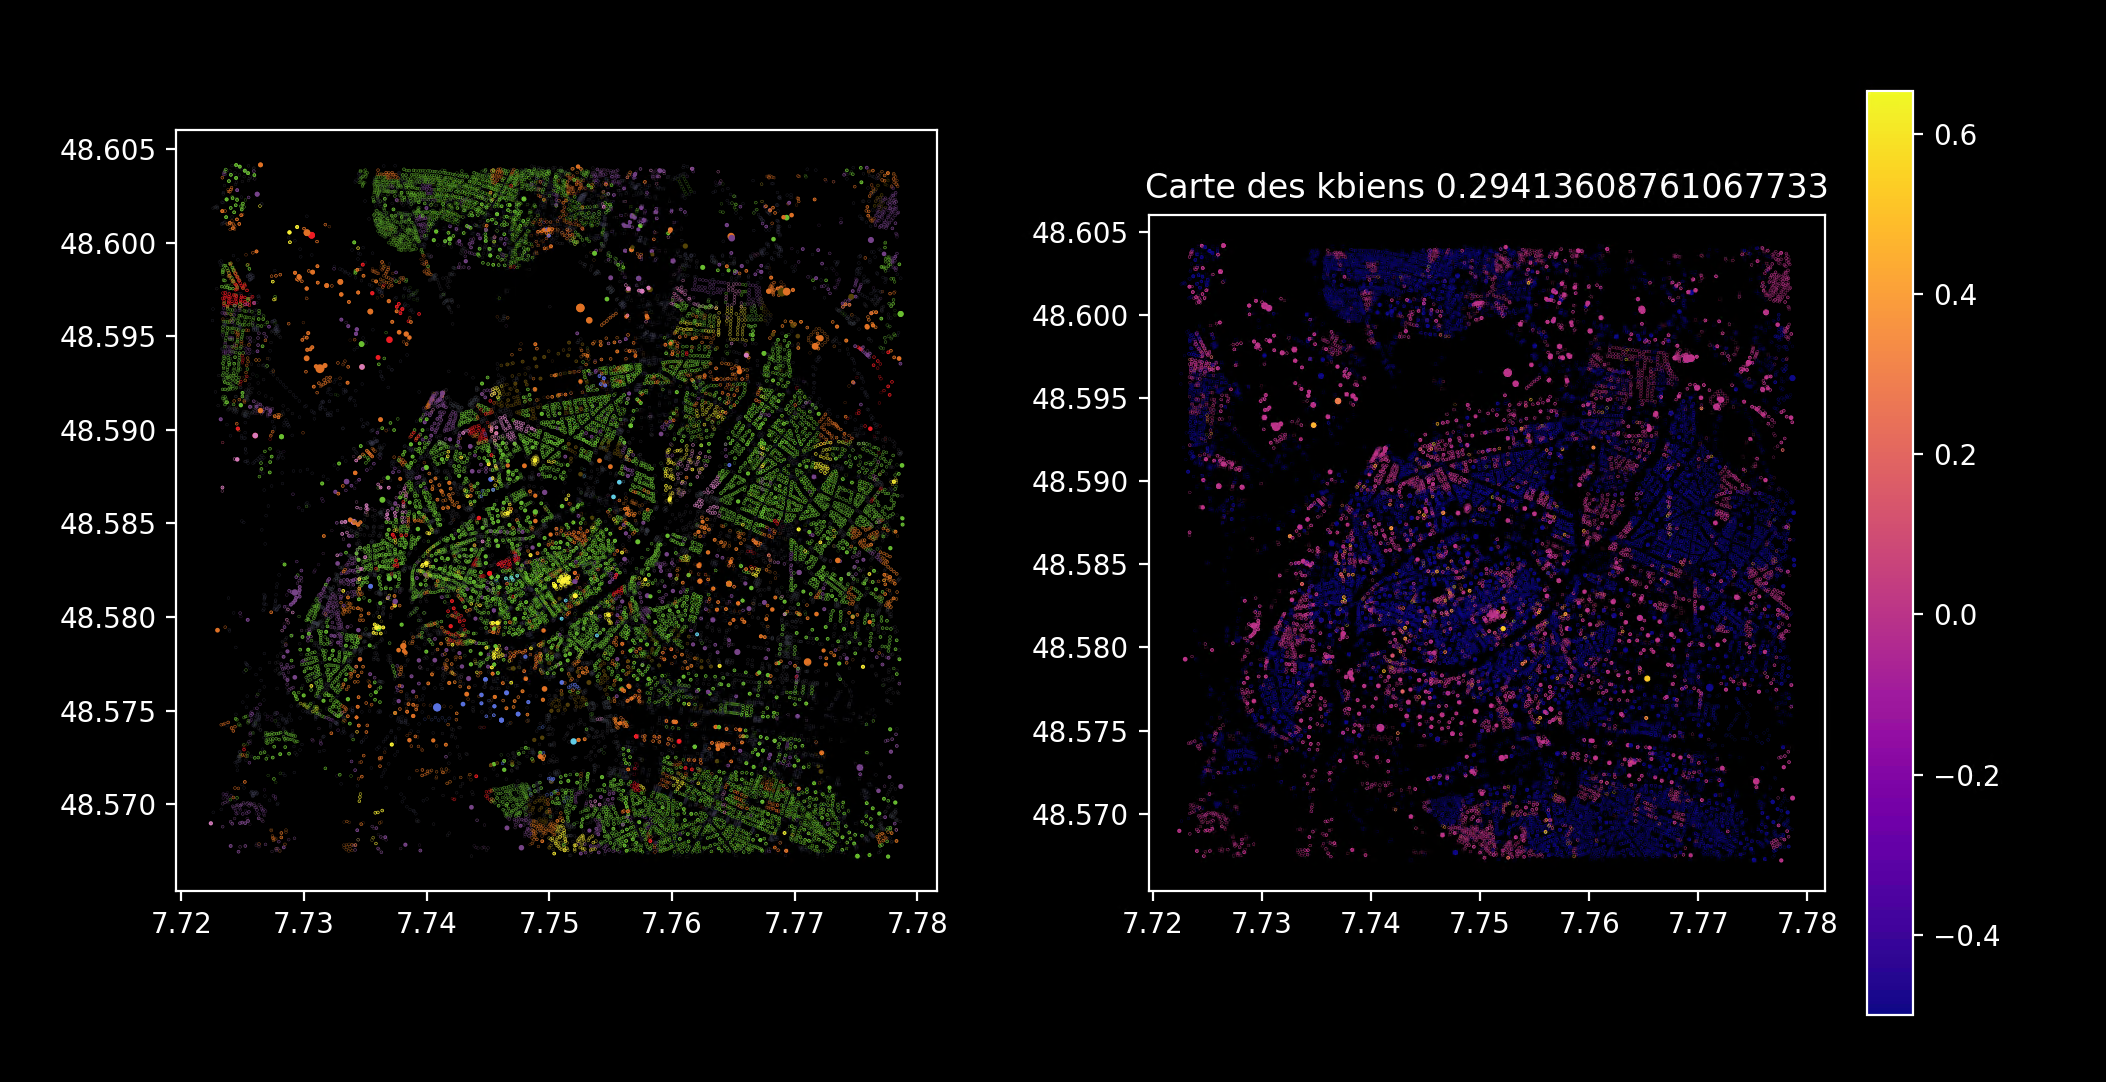
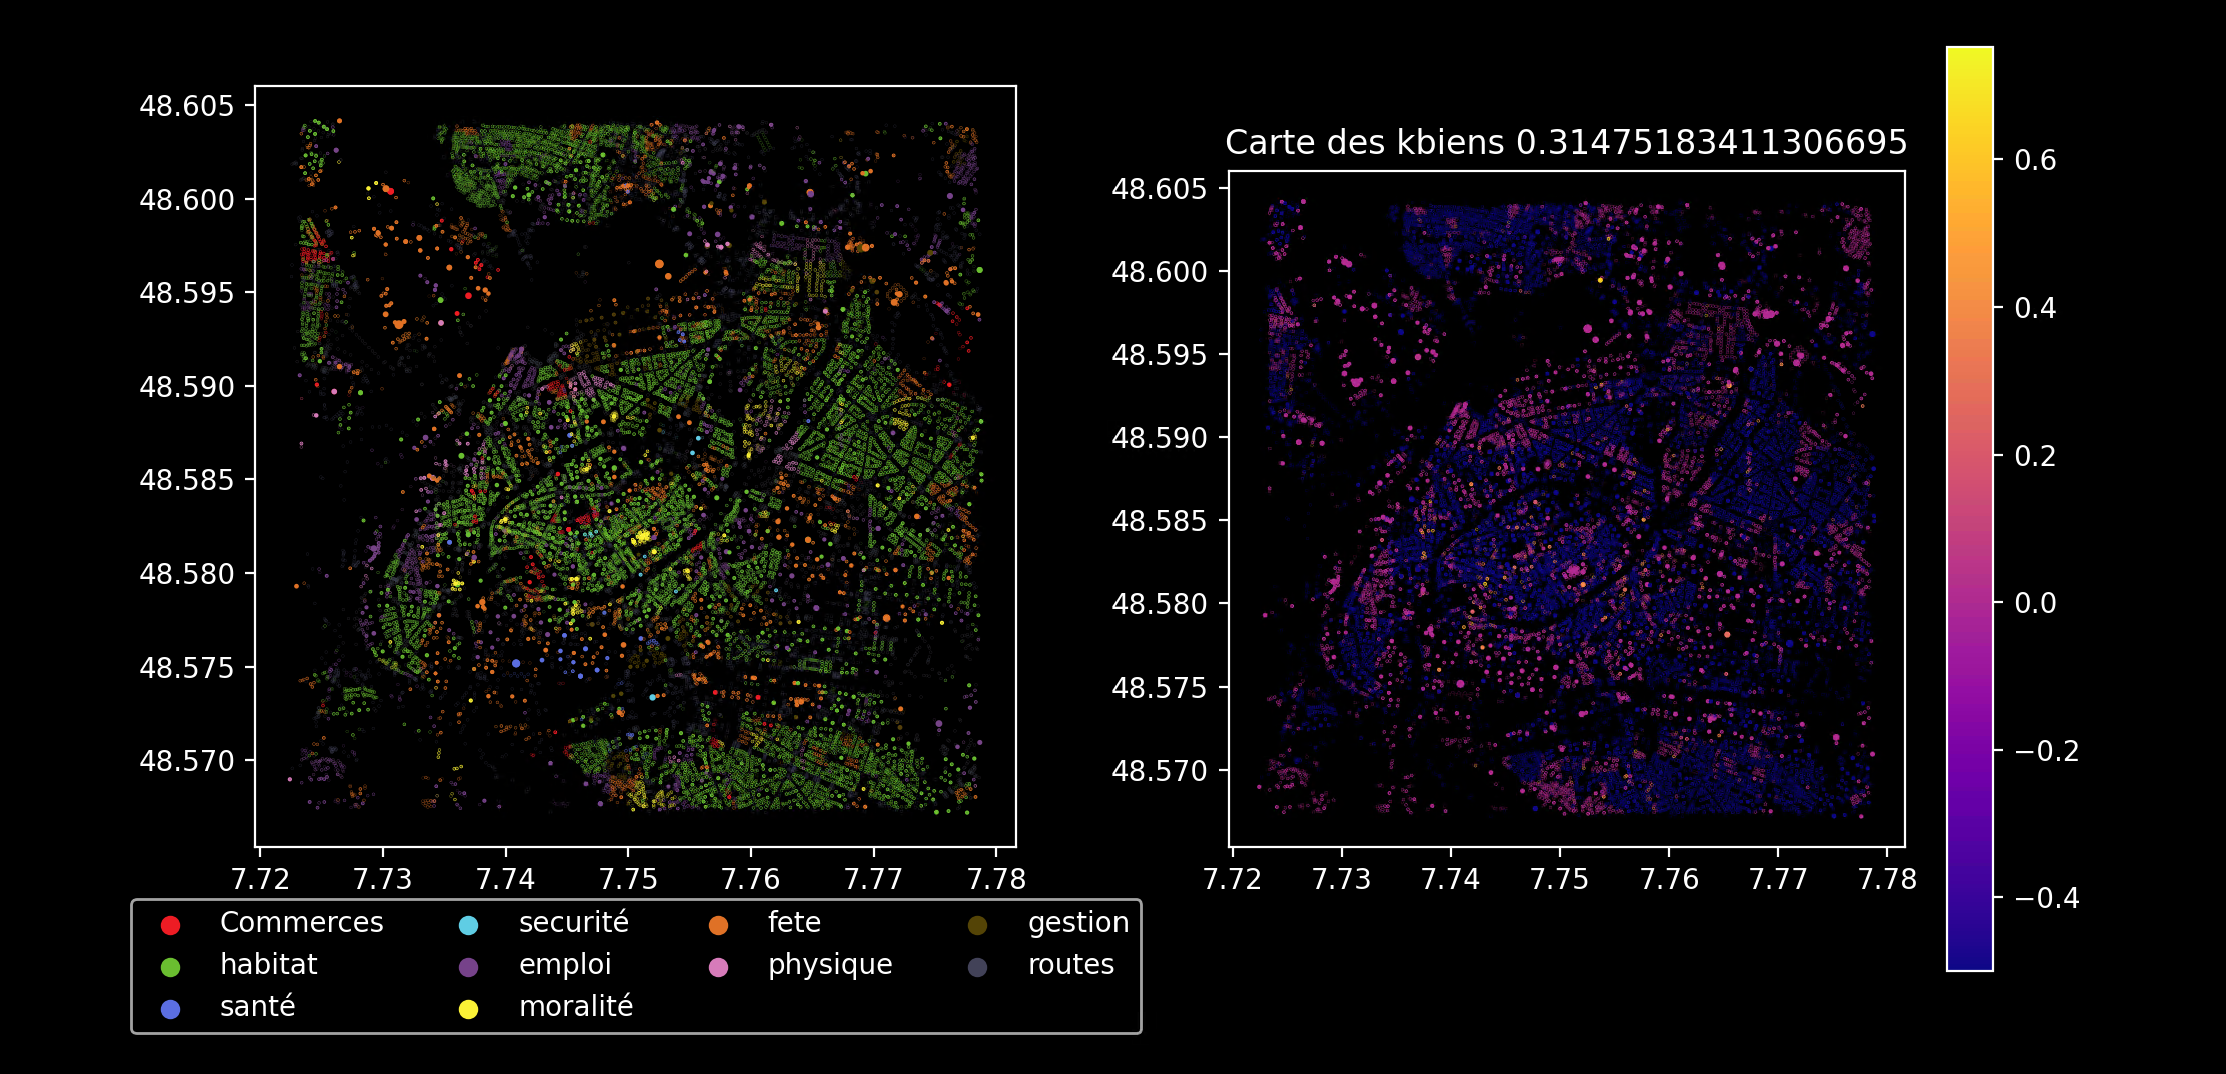
readme

Changed region(s): [[0.0309, 0.0307, 0.9568, 0.9525]]

diff --git a/README.md b/README.md
@@ -61,18 +61,7 @@ Le temps d'exécution de ce programme est très long. La plus grande surface sur
 
 ## Visite du repo 
 
-Pour que les différent fichiers fonctionnent correctement, il faut que les bibliothèques suivantes soient installées :
-
-* numpy
-* matplotlib
-* pynput
-* csv
-* collections
-* keyboard
-* requests
-* json
-* osmnx
-
+ > Pour que les différent fichiers fonctionnent correctement, il faut que les bibliothèques suivantes soient installées : numpy, matplotlib, csv, collections, requests, json, osmnx. D'autres peuvent s'ajouter pour les versions précédentes.
 
 
  * `main.py` : C'est d'ici qu'est exécuté le programme. Il contient la classe Core qui gère le deuxième étage de simulations et les procédures utilisées par l'algorithme d'apprentissage renforcé. Il désérialise la mémoire du programme, créé les villes et les modifie. Il est actuellement paramétré pour lancer Strasbourg centre en taille 3 à son exécution. Pour le lancer en simulation : `python main.py`.
@@ -97,11 +86,27 @@ Pour que les différent fichiers fonctionnent correctement, il faut que les bibl
 
  * `cache` : dossier utilisé par l'une de nos bibliothèques importées sans que l'on ne sache vraiment pourquoi.
 
+## Showcase : Strasbourg
 
+Nous montrons dans les détails le premier résultat fonctionnel de PackastanSimulation : l'implémentation de la ville de Strasbourg dans le programme.
 
-### Apprentissage par renforcement
+### Création de la carte 
 
-Pour plus d'informations sur l'apprentissage par renforcement, consultez [etape_renforcement.md](https://github.com/3Mousquetaires/PackastanSimulation/blob/main/etape_apprentissage.md)
+> Le fichier `mapbuilder` fut appelé, centré sur la Grande île de Strasbourg, au sud ouest de la cathédrale. Voici le résultat, affiché sur matplotlib :
+
+![Alt text](readme/Stras%203%20map.png)
+
+### Premier étage de la simulation
+
+ > Une fois que la ville est récupérée et instanciée, 1000 citoyens sont créés et vont se déplacer dans la ville pour lancer le calcul du kbien. Voici le résultat :
+
+ ![Alt text](readme/Stras%203%20premier%20tour.png)
+
+ ### Asymptote et Strasbourg optimal :
+
+ > Laissons tourner la simulation quelque temps :
+
+![Alt text](readme/Stras%203%20asymptote%20tour.png)
 
 
 
